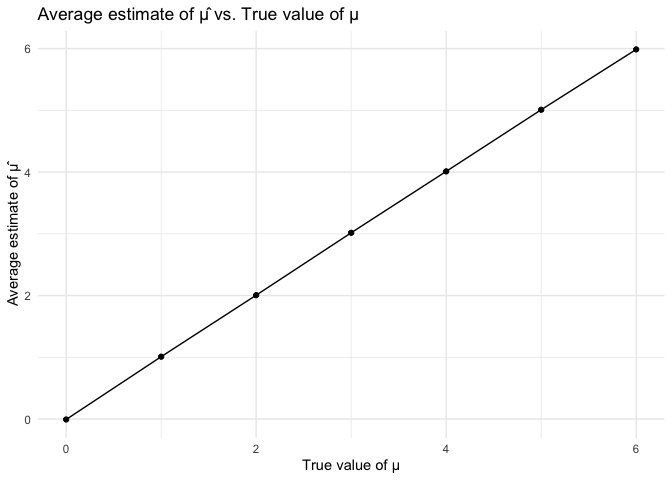
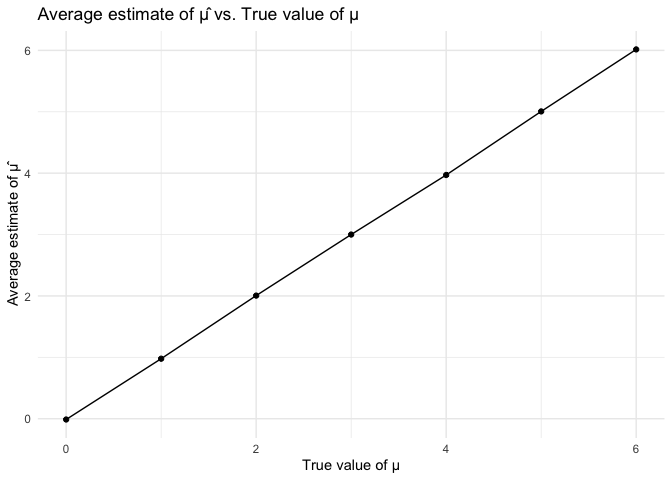
add some comments for spagetthi plot of problem two

diff --git a/p8105_hw5_xw2962.md b/p8105_hw5_xw2962.md
@@ -252,7 +252,8 @@ Unlike the control group, the experimental group’s subjects have
 observation values increasing overtime and have a clear increasing
 trend. The observation values for control group fluctuate between -2 and
 4. Whereas, the observation values for experimental group increase from
-0 to around 8.
+0 to around 8. And compared to control group, the mean values of
+observations of each subject are higher in experimental group.
 
 ## Problem Three
 
@@ -300,18 +301,18 @@ print(simulation_results)
 ```
 
     ## # A tibble: 35,000 × 4
-    ##     mu_hat p_value true_mu rejected
-    ##      <dbl>   <dbl>   <dbl> <lgl>   
-    ##  1  1.19    0.267        0 FALSE   
-    ##  2 -0.0238  0.975        0 FALSE   
-    ##  3 -1.47    0.107        0 FALSE   
-    ##  4  1.82    0.0564       0 FALSE   
-    ##  5  0.183   0.846        0 FALSE   
-    ##  6 -1.03    0.314        0 FALSE   
-    ##  7  0.761   0.361        0 FALSE   
-    ##  8  0.453   0.617        0 FALSE   
-    ##  9 -1.42    0.159        0 FALSE   
-    ## 10  1.20    0.171        0 FALSE   
+    ##    mu_hat p_value true_mu rejected
+    ##     <dbl>   <dbl>   <dbl> <lgl>   
+    ##  1 -0.757  0.445        0 FALSE   
+    ##  2  0.335  0.693        0 FALSE   
+    ##  3  0.556  0.557        0 FALSE   
+    ##  4 -1.36   0.196        0 FALSE   
+    ##  5 -0.450  0.620        0 FALSE   
+    ##  6  1.29   0.180        0 FALSE   
+    ##  7 -1.54   0.0963       0 FALSE   
+    ##  8 -1.68   0.0829       0 FALSE   
+    ##  9 -0.418  0.549        0 FALSE   
+    ## 10  0.107  0.923        0 FALSE   
     ## # ℹ 34,990 more rows
 
 ``` r
@@ -328,13 +329,13 @@ print(power_and_estimates)
     ## # A tibble: 7 × 3
     ##   true_mu  power average_mu_hat
     ##     <dbl>  <dbl>          <dbl>
-    ## 1       0 0.0528       -0.00741
-    ## 2       1 0.193         1.01   
-    ## 3       2 0.574         2.01   
-    ## 4       3 0.891         3.02   
-    ## 5       4 0.992         4.01   
-    ## 6       5 1             5.01   
-    ## 7       6 1             5.99
+    ## 1       0 0.0566        -0.0130
+    ## 2       1 0.179          0.977 
+    ## 3       2 0.564          2.01  
+    ## 4       3 0.894          3.00  
+    ## 5       4 0.986          3.97  
+    ## 6       5 1.00           5.01  
+    ## 7       6 1              6.02
 
 #### Make a plot showing the the power of the test on the y axis and the true value of μ on the x axis.
 
